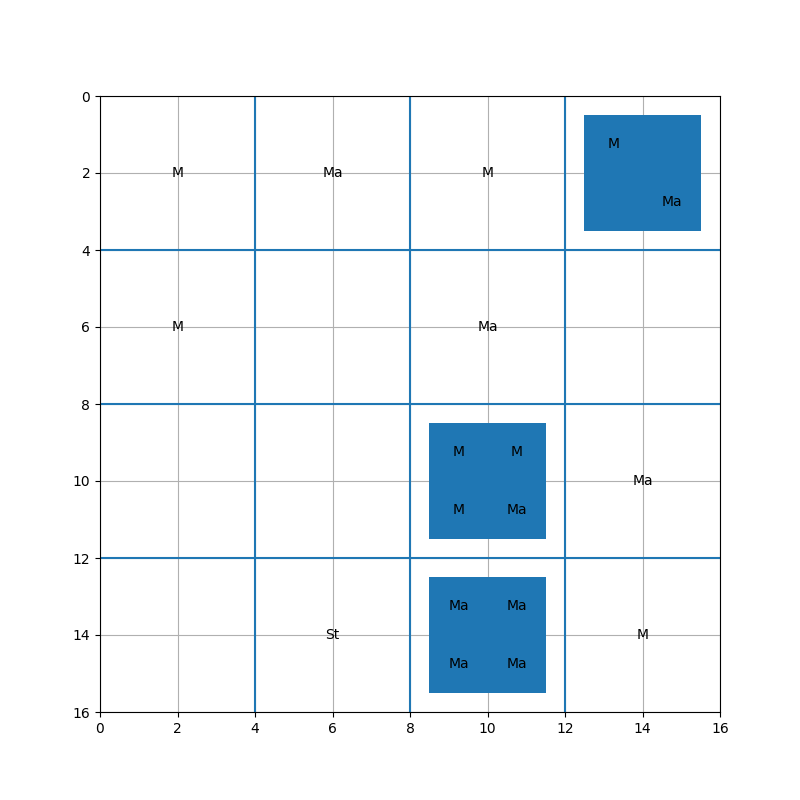
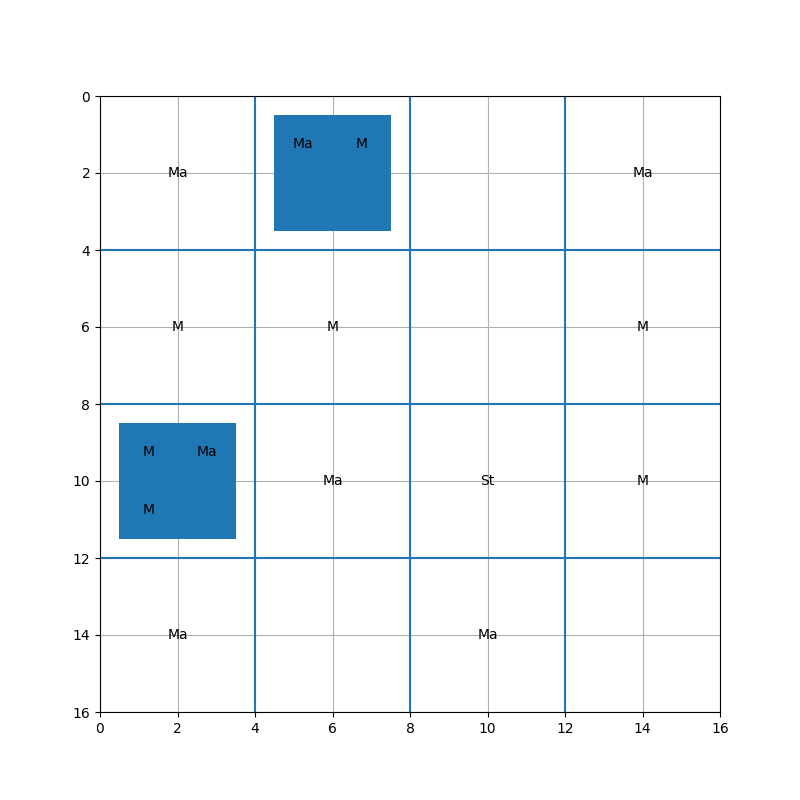
Score support, bunkers now correctly account for marauders taking up 2 spots (v ugly code lolol)

diff --git a/COMPX556/sc2_siege/sc2_evaluator/command.py b/COMPX556/sc2_siege/sc2_evaluator/command.py
@@ -3,12 +3,15 @@ from sc2.ids.unit_typeid import UnitTypeId
 from sc2.position import Point2
 import typing as t
 import gp
-from gp.rectangle import Rectangle 
+from gp.rectangle import Rectangle
 from sc2_evaluator.const import PRODUCTION_UNIT, UNIT_MAPPING
 from sc2.bot_ai import BotAI
+from sc2.ids.ability_id import AbilityId
+
 
 class CommandFailed(Exception):
     pass
+
 
 class Command():
     def __init__(self) -> None:
@@ -23,7 +26,8 @@ class Command():
             return f'{self.__class__.__name__}->{self.after}'
         else:
             return f'{self.__class__.__name__}'
-    
+
+
 class TrainUnit(Command):
     def __init__(self, unit: UnitTypeId, building: UnitTypeId,) -> None:
         self.unit = unit
@@ -33,8 +37,10 @@ class TrainUnit(Command):
     def train(self, bot: BotAI):
         building = bot.structures(self.building).idle.random
         if building is None:
-            raise CommandFailed(f'No idle {self.building} to train {self.unit}')
+            raise CommandFailed(
+                f'No idle {self.building} to train {self.unit}')
         building.train(self.unit)
+
 
 class PlaceUnit(Command):
     def __init__(self, unit: UnitTypeId, location: Point2) -> None:
@@ -48,12 +54,14 @@ class PlaceUnit(Command):
         if units.empty:
             raise CommandFailed(f'No {self.unit} to place')
         unit = units.random
-        
+
         # Attempt to move the unit
         if unit.move(self.location) != True:
-            raise CommandFailed("Failed to move unit")    
-        return unit.tag 
-
+            raise CommandFailed("Failed to move unit")
+        # need to wait for tank to be in position. Also would be good as then units can move past them??
+        # if (unit.type_id == UnitTypeId.SIEGETANK):
+            # unit(AbilityId.SIEGEMODE_SIEGEMODE)
+        return unit.tag
 
 
 class BuildStructure(Command):
@@ -68,8 +76,7 @@ class BuildStructure(Command):
 
         worker = bot.workers.idle.random
         worker.build(self.unit, self.location)
-        
-            
+
 
 class GarrisonStructure(PlaceUnit):
     def __init__(self, unit: UnitTypeId, location: Point2, structure: UnitTypeId) -> None:
@@ -79,7 +86,8 @@ class GarrisonStructure(PlaceUnit):
     def place(self, bot: BotAI, placed_units: t.Set[int]) -> int:
         # Are units available to garrison and does the structure exist?
         units = bot.units(self.unit).tags_not_in(placed_units)
-        structures = bot.structures.ready.of_type(self.structure).closer_than(1, self.location)
+        structures = bot.structures.ready.of_type(
+            self.structure).closer_than(1, self.location)
         if units.empty:
             raise CommandFailed(f'No {self.unit} to place')
         if structures.empty:
@@ -88,8 +96,8 @@ class GarrisonStructure(PlaceUnit):
         # Attempt to garrison the unit
         unit = units.random
         if unit.smart(structures.first) != True:
-            raise CommandFailed("Failed to move unit")    
-        return unit.tag 
+            raise CommandFailed("Failed to move unit")
+        return unit.tag
 
 
 def build_command_queue(gene: gp.Gene, parent_quad: Rectangle) -> t.List[Command]:
@@ -104,7 +112,7 @@ def build_command_queue(gene: gp.Gene, parent_quad: Rectangle) -> t.List[Command
     elif isinstance(gene, gp.Empty):
         pass
     elif isinstance(gene, gp.Leaf):
-        # Create a train command to build the unit and then a place command 
+        # Create a train command to build the unit and then a place command
         # to place the unit on the battlefield
         unit = UNIT_MAPPING[type(gene)]
         prod = PRODUCTION_UNIT[unit]
@@ -120,6 +128,7 @@ def build_command_queue(gene: gp.Gene, parent_quad: Rectangle) -> t.List[Command
 
             unit = UNIT_MAPPING[type(child)]
             prod = PRODUCTION_UNIT[unit]
-            cmd = cmd.then(TrainUnit(unit, prod).then(GarrisonStructure(unit, position, UnitTypeId.BUNKER)))
+            cmd = cmd.then(TrainUnit(unit, prod).then(
+                GarrisonStructure(unit, position, UnitTypeId.BUNKER)))
         queue.append(cmd)
     return queue

diff --git a/COMPX556/sc2_siege/main.py b/COMPX556/sc2_siege/main.py
@@ -1,4 +1,8 @@
+from email.errors import HeaderMissingRequiredValue
+from os import system
 import typing as t
+from wsgiref.util import setup_testing_defaults
+from xmlrpc.client import Boolean
 from sc2 import maps
 from sc2.bot_ai import BotAI
 from sc2.data import Race
@@ -21,7 +25,9 @@ class EvaluateChromosome(BotAI):
 
     placed_units: t.Set[int] = set()
     commands: t.List[cmd.Command]
-    
+    setup_done: Boolean = False
+    game_over: Boolean = False
+    score: float = -1
 
     def __init__(self, commands: t.List[cmd.Command]) -> None:
         super().__init__()
@@ -32,25 +38,37 @@ class EvaluateChromosome(BotAI):
         try:
             if isinstance(do_now, cmd.TrainUnit):
                 do_now.train(self)
-                logger.info(f'Training  {do_now.unit.name} in {do_now.building.name}')
+                logger.info(
+                    f'Training  {do_now.unit.name} in {do_now.building.name}')
             elif isinstance(do_now, cmd.PlaceUnit):
                 tag = do_now.place(self, self.placed_units)
                 self.placed_units.add(tag)
-                logger.info(f'Placing   {do_now.unit.name} at {do_now.location}')
+                logger.info(
+                    f'Placing   {do_now.unit.name} at {do_now.location}')
             elif isinstance(do_now, cmd.BuildStructure):
                 do_now.build(self)
-                logger.info(f'Building  {do_now.unit.name} at {do_now.location}')
-            
+                logger.info(
+                    f'Building  {do_now.unit.name} at {do_now.location}')
+
             self.commands.extend(do_now.after)
 
         except cmd.CommandFailed as e:
             self.commands.append(do_now)
-        
 
     async def on_step(self, iteration):
+
         if len(self.commands) != 0:
             self.consume_command()
+        elif not self.setup_done:
+            await self.chat_send("Ready!")
+            self.setup_done = True
+        if not self.townhalls and not self.game_over:
+            self.game_over = True
 
+            await self.chat_send("Survived " + str(self.time) + " seconds")
+            logger.info(f"Survived {str(self.time)} seconds")
+            self.score = self.time
+            await self.client.leave()
 
 
 def main():
@@ -70,7 +88,6 @@ def main():
     # )
     gene = gp.initialise_chromosome(2)
 
-
     commands = cmd.build_command_queue(gene, Rectangle(40, 40, 16, 16))
     bot = EvaluateChromosome(commands)
     game_map = maps.get("Siege")
@@ -78,12 +95,13 @@ def main():
     logger.info(f'Evaluating Gene: {gene}')
     logger.info(f"Map Full Path  : {game_map.path}")
     plot_gene(gene, "gene.png")
-
-    run_game(
+    # res just holds a Result enum value of either Victory or Defeat
+    res = run_game(
         game_map,
         [Bot(Race.Terran, bot, name="EvaluationBot")],
         realtime=True,
     )
+    logger.info(f'Gametime (score): {bot.score}')
 
 
 if __name__ == "__main__":

diff --git a/COMPX556/sc2_siege/gp/initialisation.py b/COMPX556/sc2_siege/gp/initialisation.py
@@ -4,10 +4,12 @@ import gp.chromosome as gp
 
 
 def random_bunker() -> gp.Bunker:
-    return gp.Bunker([rnd.choice(gp.INFANTRY)() for _ in range(4)])
+    # return gp.Bunker([rnd.choice(gp.INFANTRY)() for _ in range(4)])
+    return gp.Bunker(fill_bunker())
 
 
 def initialise_chromosome(depth: int, parent: t.Optional[gp.Gene] = None) -> gp.Gene:
+    fill_bunker()
     # Base Case
     if depth == 0:
         # add leaf node
@@ -19,3 +21,21 @@ def initialise_chromosome(depth: int, parent: t.Optional[gp.Gene] = None) -> gp.
     gene.set_parent(parent)
     gene.children = [initialise_chromosome(depth, gene) for _ in range(4)]
     return gene
+
+
+def fill_bunker():
+    i = 0
+    units = []
+    while i <= 4:
+        unit = rnd.choice(gp.INFANTRY)()
+        if isinstance(unit, gp.Marine) or isinstance(unit, gp.Empty):
+            if i + 1 <= 4:
+                units.append(unit)
+                i += 1
+        elif isinstance(unit, gp.Marauder):
+            if i + 2 <= 4:
+                units.append(unit)
+                i += 2
+        else:
+            raise gp.BadChromosome("Invalid infantry type")
+    return units

diff --git a/COMPX556/sc2_siege/gp/chromosome.py b/COMPX556/sc2_siege/gp/chromosome.py
@@ -2,6 +2,7 @@ import typing as t
 from copy import deepcopy
 from gp.rectangle import Rectangle
 
+
 class BadChromosome(Exception):
     pass
 
@@ -88,9 +89,10 @@ class Composite(Gene):
 
     @children.setter
     def children(self, children: t.List[Gene]):
-        if len(children) != self.child_count:
-            raise ValueError(
-                f"{type(self)} must have {self.child_count} children")
+        # Bunker can have 2-4 children idk how to do this easily so we just yeetin the whole check
+        # if len(children) != self.child_count:
+        #     raise ValueError(
+        #         f"{type(self)} must have {self.child_count} children")
 
         # Ensure that the child can be added to this gene
         for child in children:
